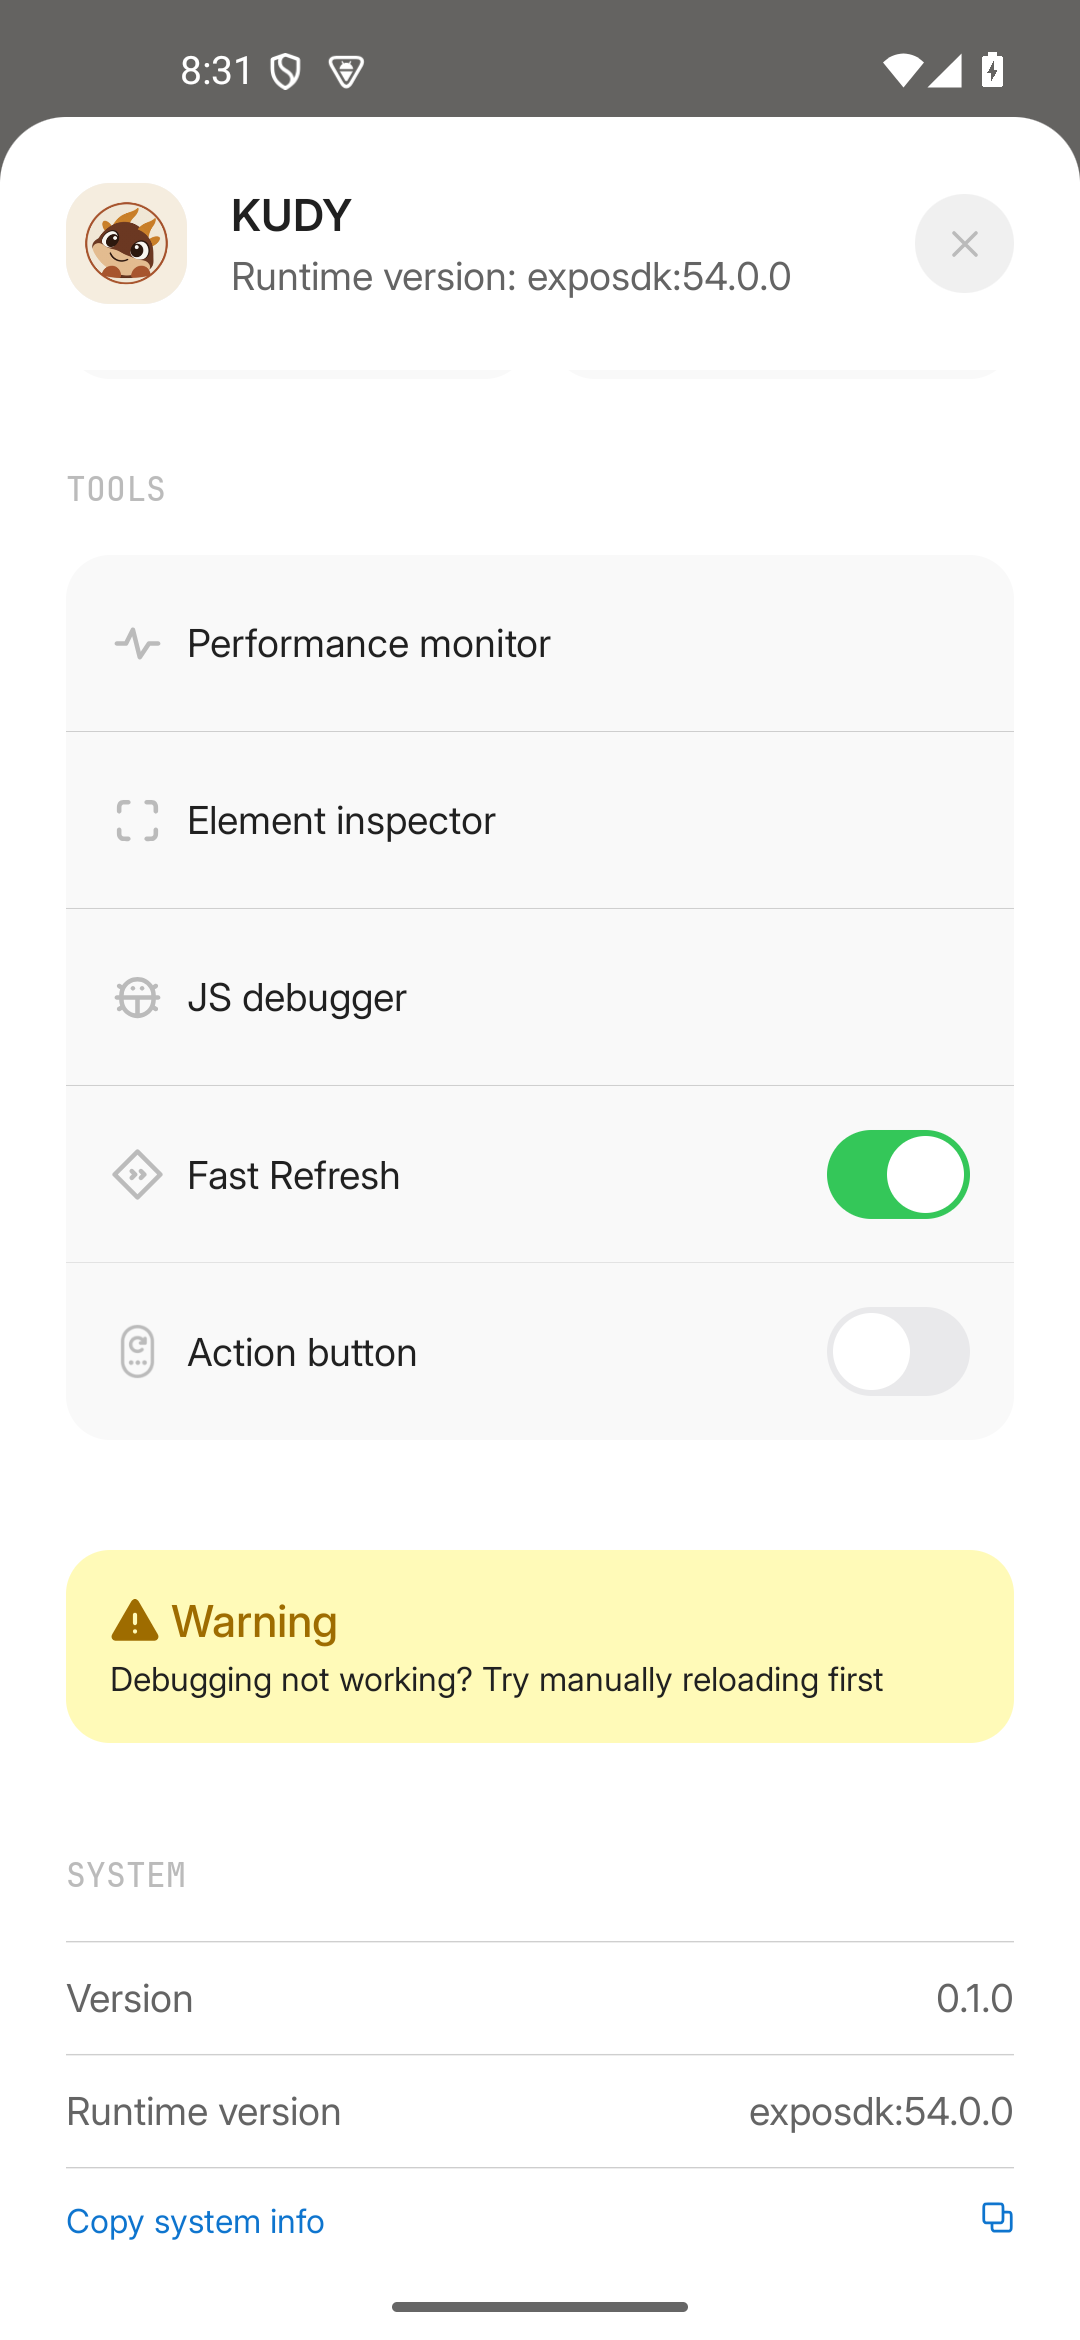
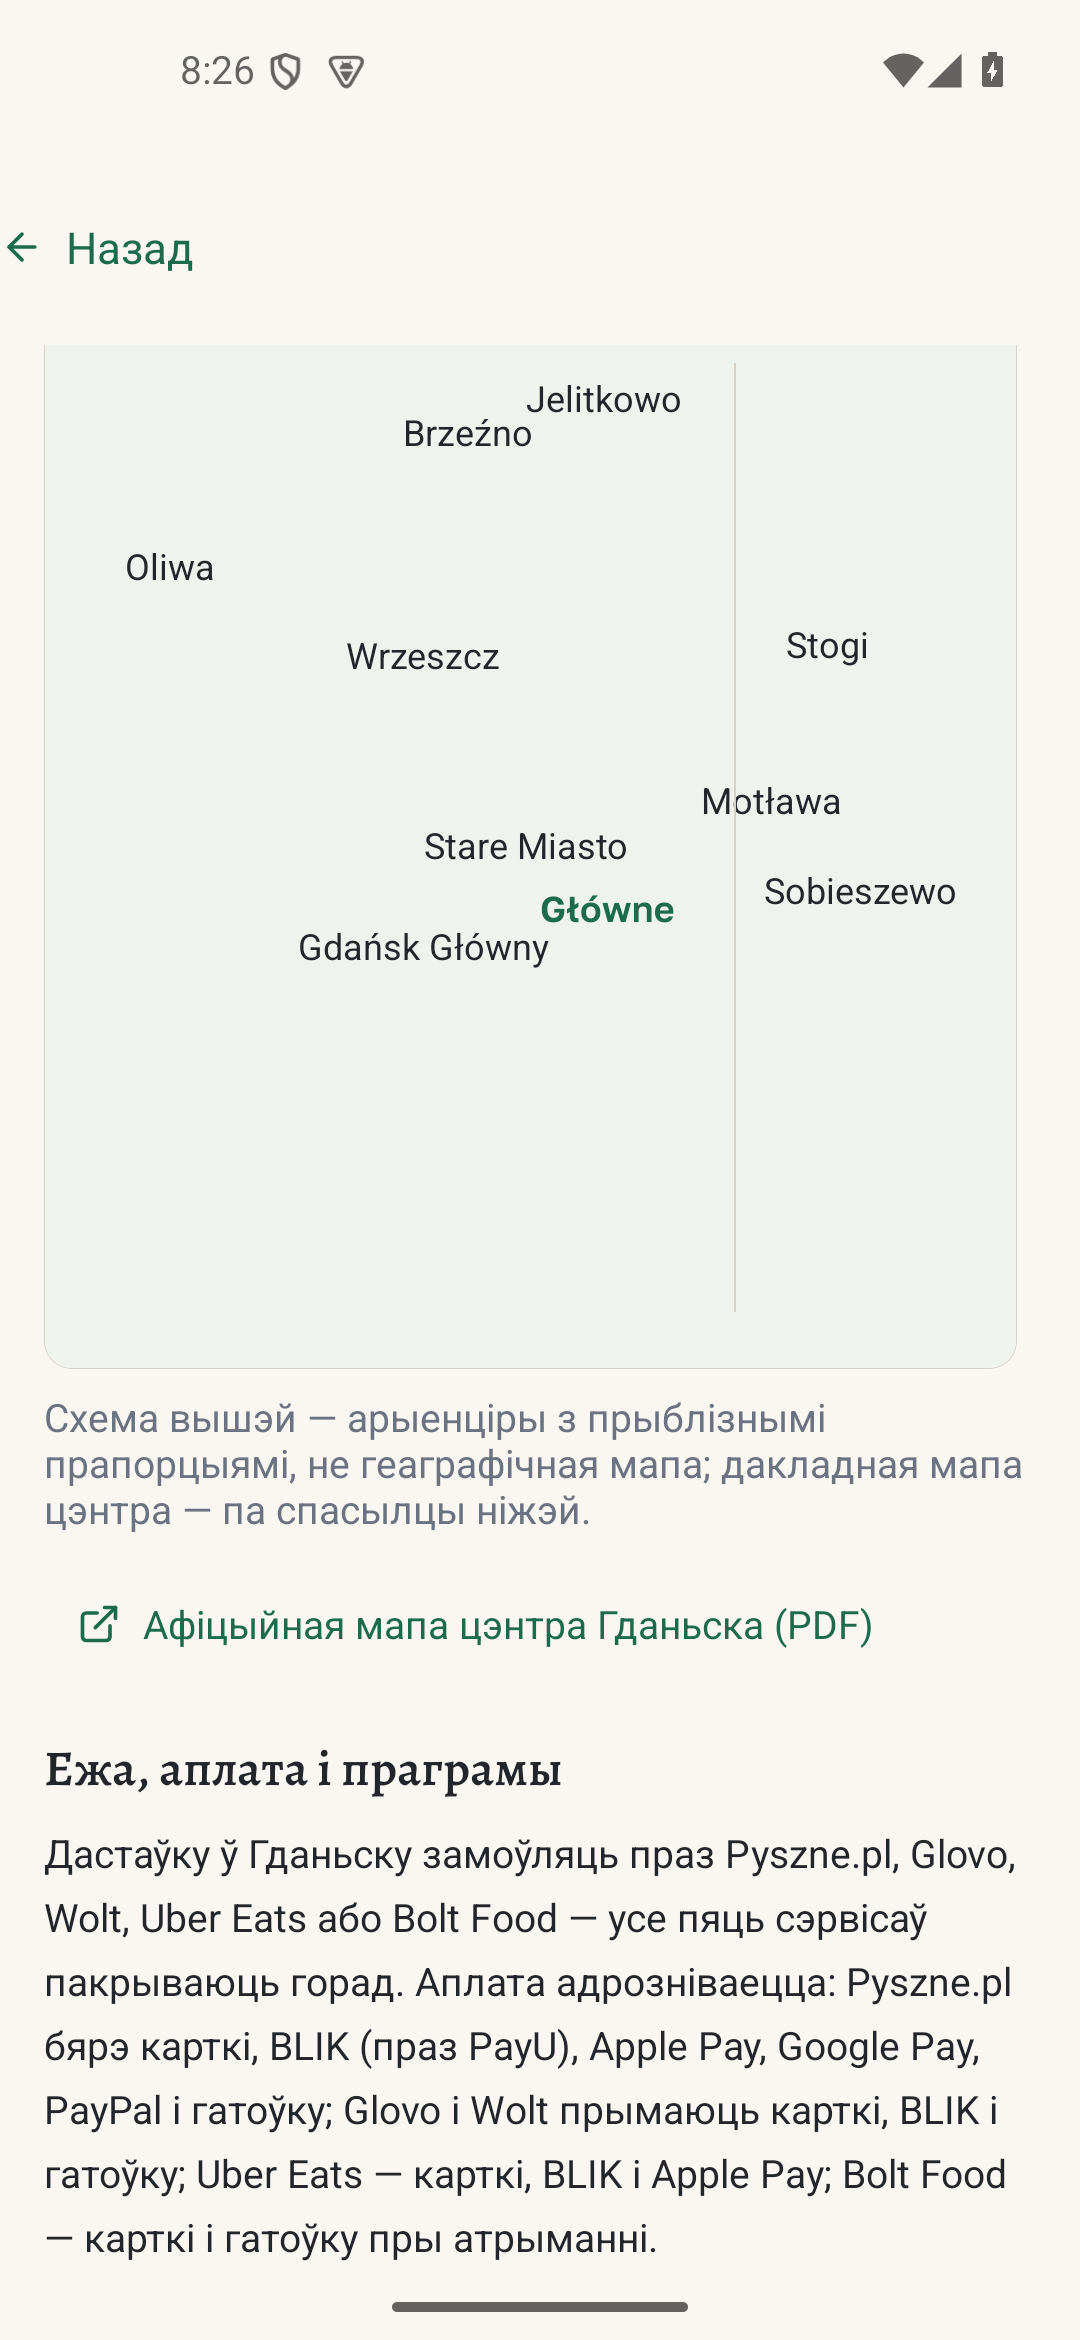
Здымак-эвідэнцыя даведніка: схема, радок мапы і мяжа раздзелаў (#246)
* Replace the links evidence capture — the previous frame showed the dev menu instead of the link rows (#200)

Verified-by: gitleaks 8.30.1

* Reword the design-QA evidence line to what the frame actually shows (#200)

Verified-by: gitleaks 8.30.1

diff --git a/docs/design-qa/200.md b/docs/design-qa/200.md
@@ -38,7 +38,7 @@
 
 ## Здымкі
 
-- Светлая: [light-432-be.png](evidence/200/light-432-be.png); цёмная: [dark-432-be.png](evidence/200/dark-432-be.png); схема: [schematic-light-432-be.png](evidence/200/schematic-light-432-be.png); радкі спасылак: [links-light-432-be.png](evidence/200/links-light-432-be.png). Здымкі Android-эмулятара (dev-кліент), не браўзерныя.
+- Светлая: [light-432-be.png](evidence/200/light-432-be.png); цёмная: [dark-432-be.png](evidence/200/dark-432-be.png); схема: [schematic-light-432-be.png](evidence/200/schematic-light-432-be.png); радок спасылкі афіцыйнай мапы цэнтра і мяжа раздзелаў city→food: [links-light-432-be.png](evidence/200/links-light-432-be.png). Здымкі Android-эмулятара (dev-кліент), не браўзерныя.
 
 ## Другі праход (спробы абвергнуць)
 
